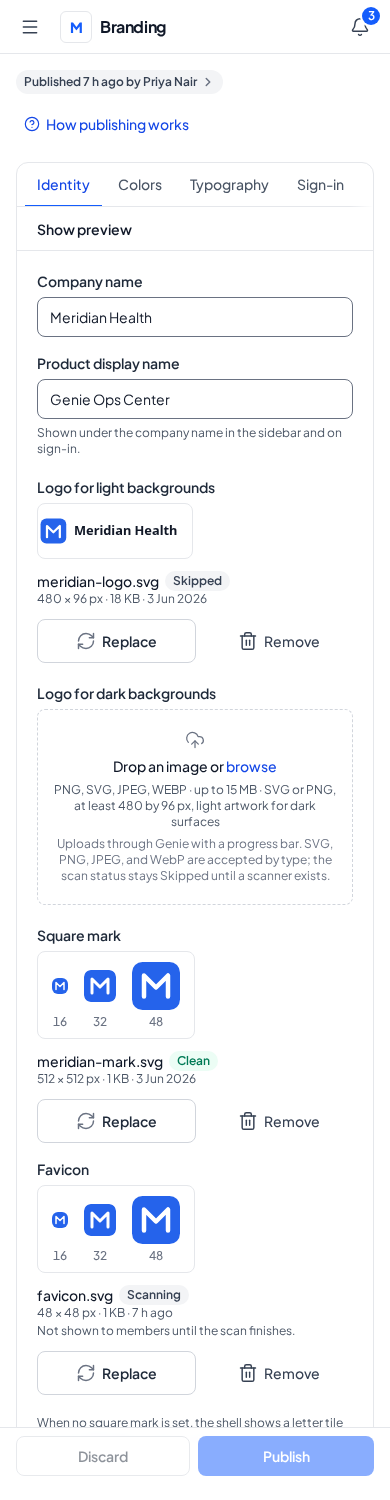
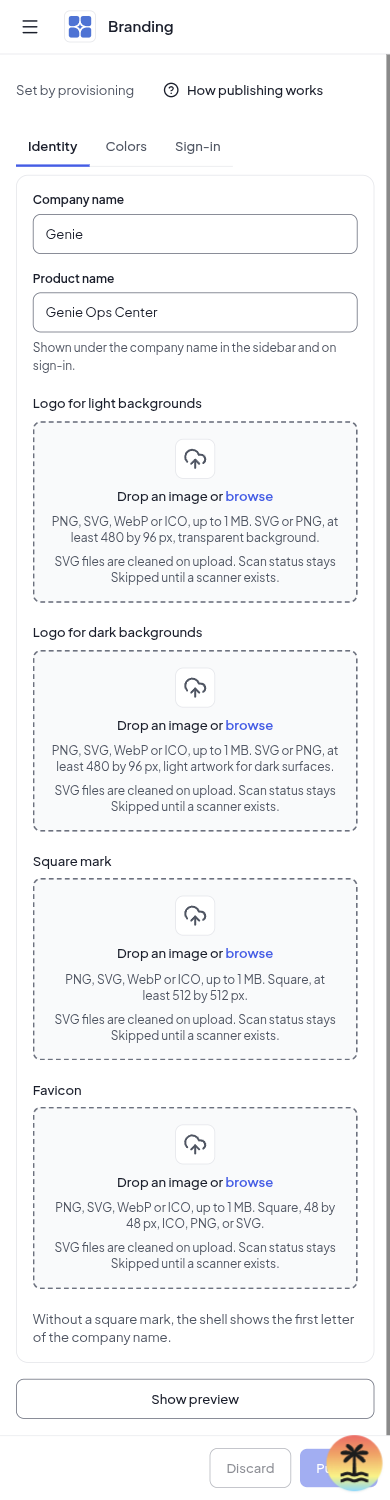
docs(design): import the branding drop zone captures
The Branding Identity captures showed the faint drop zone that d12cc371 replaced. The design workspace now holds captures of the build (c8300ae); this imports the four files with their hashes, so the next design comparison measures against the new zone.

diff --git a/docs/design/README.md b/docs/design/README.md
@@ -12,7 +12,7 @@ Standing check: a field in a `types.ts` that has no column in `../architecture/d
 
 Ownership: the design authoring workspace is `/home/kenan/work/genie-ops-center-design`; this tree is the imported reference used by the v2 repository. Each section folder holds its specification, `types.ts`, `data.json`, and captures; `reference/` holds screen components as visual evidence (see `reference/README.md`); `design-system/tokens.md` and `shell/spec.md` hold the imported token layer and shell. Importing a design does not approve changes to platform behavior, data shape, module contracts or roadmap scope. Conflicts require explicit reconciliation with the canonical platform decisions and specifications. The [2026-09-19 import record](imports/2026-09-19.md) records provenance, known stale captures and review status. A capture is one historical state, not proof of current behavior; do not choose authority merely by file modification time. Inspect current source and its governing contract, and report disagreements rather than silently promoting screenshots or prototype callbacks into requirements.
 
-Latest snapshot: [2026-09-19 synchronized design bundle](imports/2026-09-19-latest.md), with per-file before/import hashes and remaining review limitations. This supersedes the earlier import status linked above. The snapshot does not approve open product decisions or certify capture freshness; no recoverable pre-import backup is claimed. The [2026-10-22 import](imports/2026-10-22-notifications.md) updates the shell, the account-and-inbox section, and the captures for the Notifications page and the header bell. The [2026-10-28 import](imports/2026-10-28-batch-5-rules.md) updates the tokens, the shell spec, and the sign-in section with the batch 5 design rules.
+Latest snapshot: [2026-09-19 synchronized design bundle](imports/2026-09-19-latest.md), with per-file before/import hashes and remaining review limitations. This supersedes the earlier import status linked above. The snapshot does not approve open product decisions or certify capture freshness; no recoverable pre-import backup is claimed. The [2026-10-22 import](imports/2026-10-22-notifications.md) updates the shell, the account-and-inbox section, and the captures for the Notifications page and the header bell. The [2026-10-28 import](imports/2026-10-28-batch-5-rules.md) updates the tokens, the shell spec, and the sign-in section with the batch 5 design rules. The [2026-10-28 drop zone import](imports/2026-10-28-drop-zone-captures.md) replaces the Branding Identity captures with the build's drop zone.
 
 Design rounds and the core section each one serves. The rounds carry no numbering of their own.
 

diff --git a/docs/design/imports/2026-10-28-drop-zone-captures.md b/docs/design/imports/2026-10-28-drop-zone-captures.md
@@ -1,0 +1,26 @@
+# Design import, 2026-10-28: the branding drop zone captures
+
+Status: imported reference snapshot. It is not blanket design approval. The [2026-10-28 batch 5 rules import](2026-10-28-batch-5-rules.md) stays the record for the drop zone rule itself.
+
+## Owner decision
+
+The batch 5 fix list, row "Drop zones" (owner, 2026-10-27): the empty image slot must read as a drop target in light and dark, and the branding captures that show a drop zone change with it. The build now follows `tokens.md` "Drop zone" (v2 commit `d12cc371`).
+
+## Source and method
+
+Source: `/home/kenan/work/genie-ops-center-design`, branch `chore/product-baseline`, commit `c8300ae` (`docs(product): capture the branding drop zone from the build`). The mapping is `product/<path>` to `docs/design/<path>`. HEAD reproduces these four files. The workspace still holds uncommitted files under `src/` and elsewhere; this import does not take them.
+
+The captures come from the running build (the dev app of the batch 5 worktree, Branding, Identity tab), not from the workspace preview app. They show the development tenant, which has no images set, so every slot shows the empty zone. Each file keeps its old size.
+
+| File | Size | SHA-256 of the imported file |
+| --- | --- | --- |
[4 lines of base64/hex data omitted]
+
+## Limitations
+
+- The old captures showed sample images in three slots (sample tenant data). The new captures show no image in any slot, so they no longer show the filled slot with Replace and Remove. The upload captures (`branding-upload-progress.png`, `branding-upload-infected.png`) still show filled slots and no empty zone, so they did not change.
+- The development build draws the TanStack Devtools button in the lower right corner. It is not part of the product.
+- The build has three tabs (Identity, Colors, Sign-in); the old captures showed the seven tabs of the target design. That difference predates this import.

diff --git a/docs/design/CHANGELOG.md b/docs/design/CHANGELOG.md
@@ -4,6 +4,11 @@ One entry per design change in this repository, newest first. Each entry names w
 
 ## 2026-10-28
 
+### Changed, the branding drop zone captures
+
+- The four Branding Identity captures that show a drop zone now come from the build, which follows `tokens.md` "Drop zone": a 2 px dashed border in `--input`, a `--muted` fill, the upload icon in a neutral tile, and the action line first (owner, 2026-10-27).
+- Files: `product/sections/branding/{branding-identity,branding-identity-dark,branding-identity-mobile,branding-identity-mobile-preview}.png`. Record: `imports/2026-10-28-drop-zone-captures.md`.
+
 ### Changed, the batch 5 design rules
 
 - Dark tables put the body rows on the page color and the header row on the lighter `--muted` band (owner, 2026-10-27).
